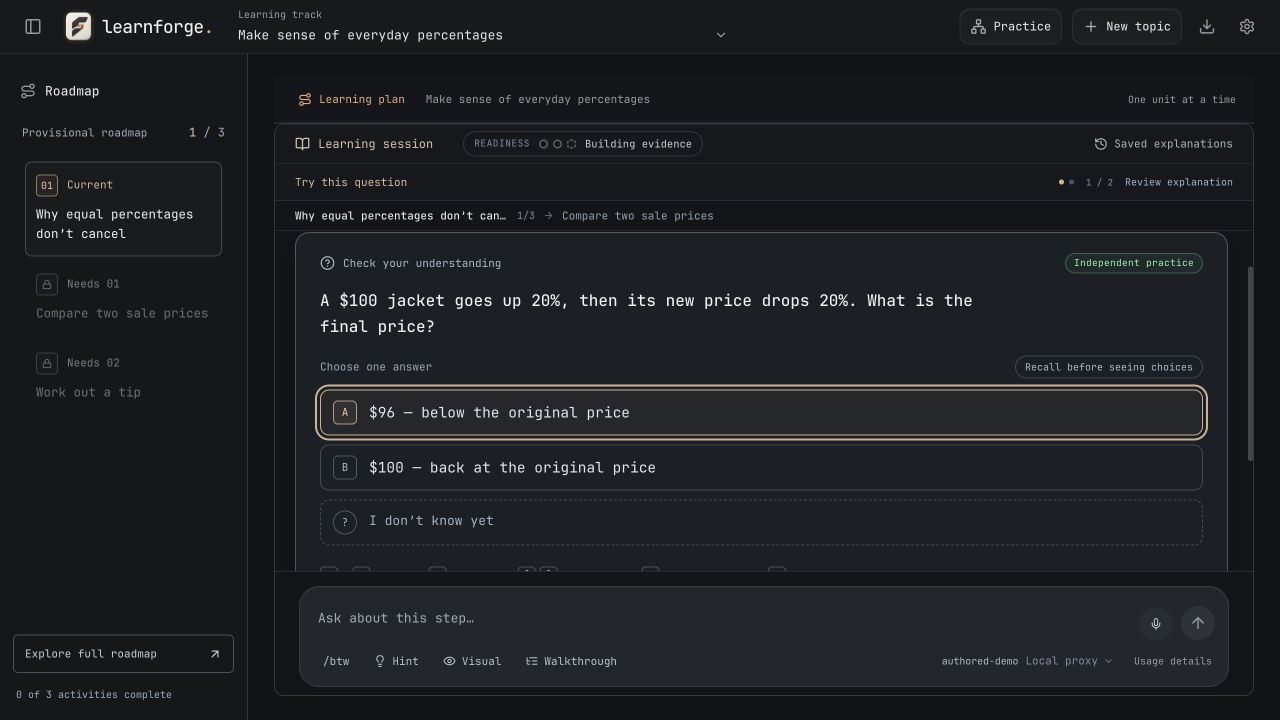
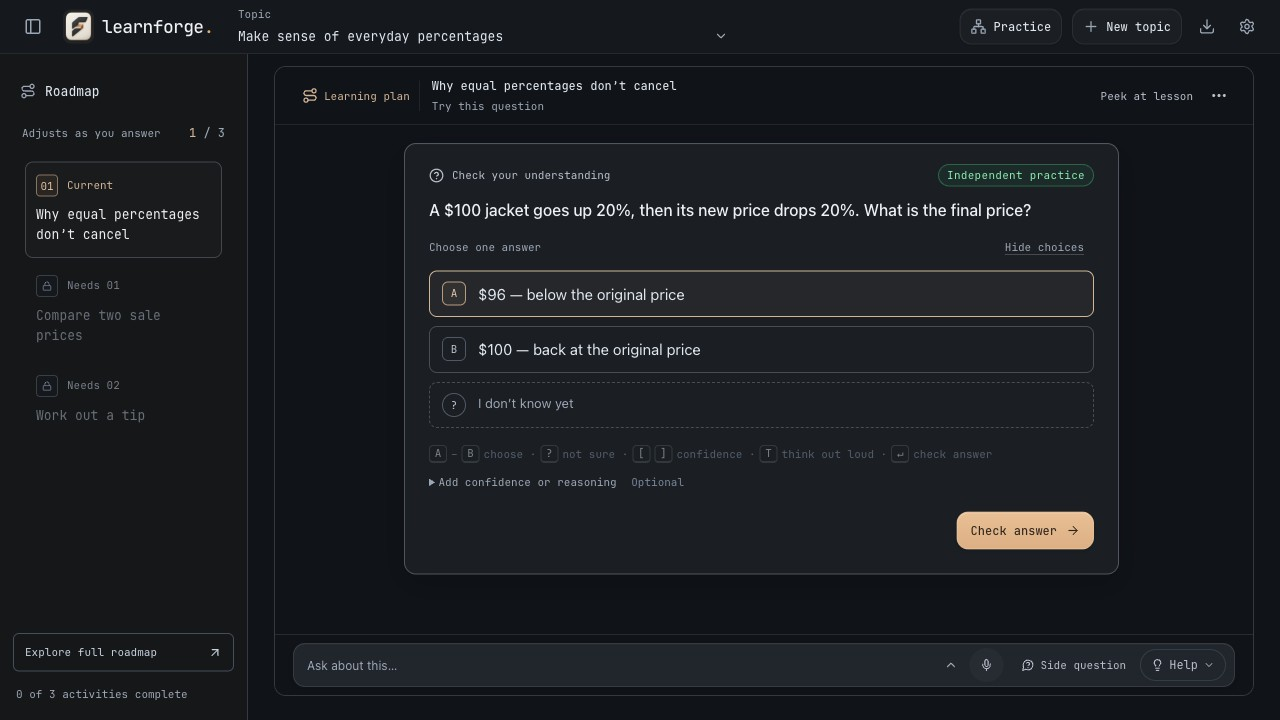
docs: refresh README screenshots and describe storage and in-app PDF reading
- Recapture start screen, question and tutoring screenshots with the
  current interface; add a screenshot of reading PDF pages in the app.
- Data and privacy: records now live in a local IndexedDB database and
  migrate automatically from earlier versions.
- Your own material: chapters inside parts by default, in-app reading.

diff --git a/README.md b/README.md
@@ -54,7 +54,7 @@ LearnForge is a local-first learning app for technical and nontechnical subjects
 | Help without losing your place | Ask a side question (or type `/btw`), or open a hint, walkthrough, visual, or clarification from the Help menu alongside the current activity. Resize or expand help while keeping your answer in place. |
 | Interface and feedback | Frosted floating menus, shared controls, a unified composer, and subtle dialog, panel and learning-step transitions. System reduced-motion support and solid material fallbacks. |
 | Math and visual explanations | KaTeX equations, paper-style derivations, comparison tables, SVG illustrations, and supported interactive models. Embedded calculations stay together; standalone figures can retain step controls. |
-| Your own material | Build a curriculum from selected PDF chapters, or read selected pages inside the app with saved page ranges, a real cover thumbnail, and a chapter index. Check what you read and keep your answer in view through tutoring. [PDF curriculum guide](docs/pdf-curriculum.md). |
+| Your own material | Build a curriculum from selected PDF chapters (books divided into parts default to their chapters), then read the pages inside the app with a saved place, a real cover thumbnail, and a chapter index. Check what you read and keep your answer in view through tutoring. [PDF curriculum guide](docs/pdf-curriculum.md). |
 | Knowledge and practice | Build a topic map from saved material, inspect exact source passages and joint reasoning premises, then start a resumable practice run. Results distinguish unaided, supported, and disputed work without awarding curriculum progress. |
 | Study notes | Export study material as Markdown or Anki-compatible data. |
 | Optional revisits | Offer an earlier idea within the same topic. Off by default, integrated into learning rather than a daily-review modal. |
@@ -63,6 +63,10 @@ LearnForge is a local-first learning app for technical and nontechnical subjects
 ![Worked percentage tutoring with a comparison table](docs/images/question-review.jpg)
 
 *The worked explanation compares the amount each percentage uses. The question and tutoring screenshots use authored demo data, with no live provider calls or learner-outcome claims. Readiness is an estimate, not a guarantee of mastery.*
+
+![Reading the pages of a saved PDF inside LearnForge, with the chapter contents beside them](docs/images/pdf-reading.jpg)
+
+*Reading chapter pages inside the app. The book sidebar shows the contents and your place; **Check what I read** stays at the bottom. The book is an authored test PDF.*
 
 ![Paper-style mathematical reasoning in LearnForge](docs/images/paper-math.jpg)
 
@@ -100,7 +104,7 @@ Remote execution sends code and tests to its provider. Runtime, package, network
 
 ## Data and privacy
 
-Learning records and settings use local browser/WebView storage. AI connection keys and Exa settings are stored locally; ElevenLabs uses macOS Keychain. Do not assume all credentials have OS-backed encryption or that local-first means offline.
+Topics, lessons, answers and review cards are stored in a local database (IndexedDB) on this device; records from earlier versions move there automatically the first time the app opens. Saved PDFs and reading places use a separate local database. Smaller preferences use local storage. AI connection keys and Exa settings are stored locally; ElevenLabs uses macOS Keychain. Do not assume all credentials have OS-backed encryption or that local-first means offline.
 
 Requests to a configured AI service send the context needed for the activity, which can include your answers and supplied source excerpts. Exa grounding, cloud code execution, and cloud narration contact their respective services when used. No user API key is included with the app.
 

diff --git a/docs/images/README.md b/docs/images/README.md
@@ -1,6 +1,6 @@
 # README image sources
 
-Updated 3 November 2026 for LearnForge 0.2.4.
+Updated 14 November 2026.
 
 | File | Source |
 | --- | --- |
@@ -8,11 +8,12 @@ Updated 3 November 2026 for LearnForge 0.2.4.
 | `start-screen.jpg` | Current production App in a disposable browser workspace. An everyday percentage goal was typed into the new entry form. |
 | `hero-session.jpg` | Current production App with an authored jacket-price question. A choice is selected, but not submitted. |
 | `question-review.jpg` | Authored post-answer tutoring in the same production App, showing the changing-base comparison table. Sidebar collapsed and the reading area scrolled to the explanation. |
-| `learning-goal.jpg` | Current New topic modal, with the goal transferred from the start screen. No goal was submitted for generation. |
+| `pdf-reading.jpg` | Current production App on a disposable origin, reading PDF pages 25–27 of an authored 94-page test book (“Practical Statistics”, generated locally; no real book). Scrolled so the page heading and the pinned **Check what I read** bar are visible. |
+| `learning-goal.jpg` | Earlier New topic modal (3 November). Not used in the README; the start screen now passes its goal straight to scoping. |
 | `paper-math.jpg` | Production derivation component with authored algebra data. Cropped to the figure boundary; no UI styling overrides. |
 | `elevenlabs-plugin.jpg` | Production settings component with an authored native bridge. No live credentials are shown; the saved-key status is fixture data. |
 
-Screenshots use the normal 1280 × 720 browser viewport, with no CSS or typography overrides. Responsive QA separately used a temporary 390 × 844 viewport and then reset it. No existing user learning records were changed and no live provider calls were made.
+`start-screen.jpg`, `hero-session.jpg`, `question-review.jpg` and `pdf-reading.jpg` were recaptured on 14 November 2026 after the interface update. Screenshots use the normal 1280 × 720 browser viewport, with no CSS or typography overrides. Responsive QA separately used a temporary 390 × 844 viewport and then reset it. No existing user learning records were changed and no live provider calls were made.
 
 The question and tutoring data come from [the reproducible screenshot fixture](../../scripts/screenshots/readme.tsx), which mounts the actual App and blocks external model requests. The visible `authored-demo` model label identifies the demonstration. It refuses to replace existing sessions on an unmarked origin. Run `npm run dev`, then use a **fresh, disposable localhost origin** to open `/scripts/screenshots/readme.html?view=question` or `?view=feedback`. These screenshots show supported interface capabilities, not model output or evidence that someone learned.
 
